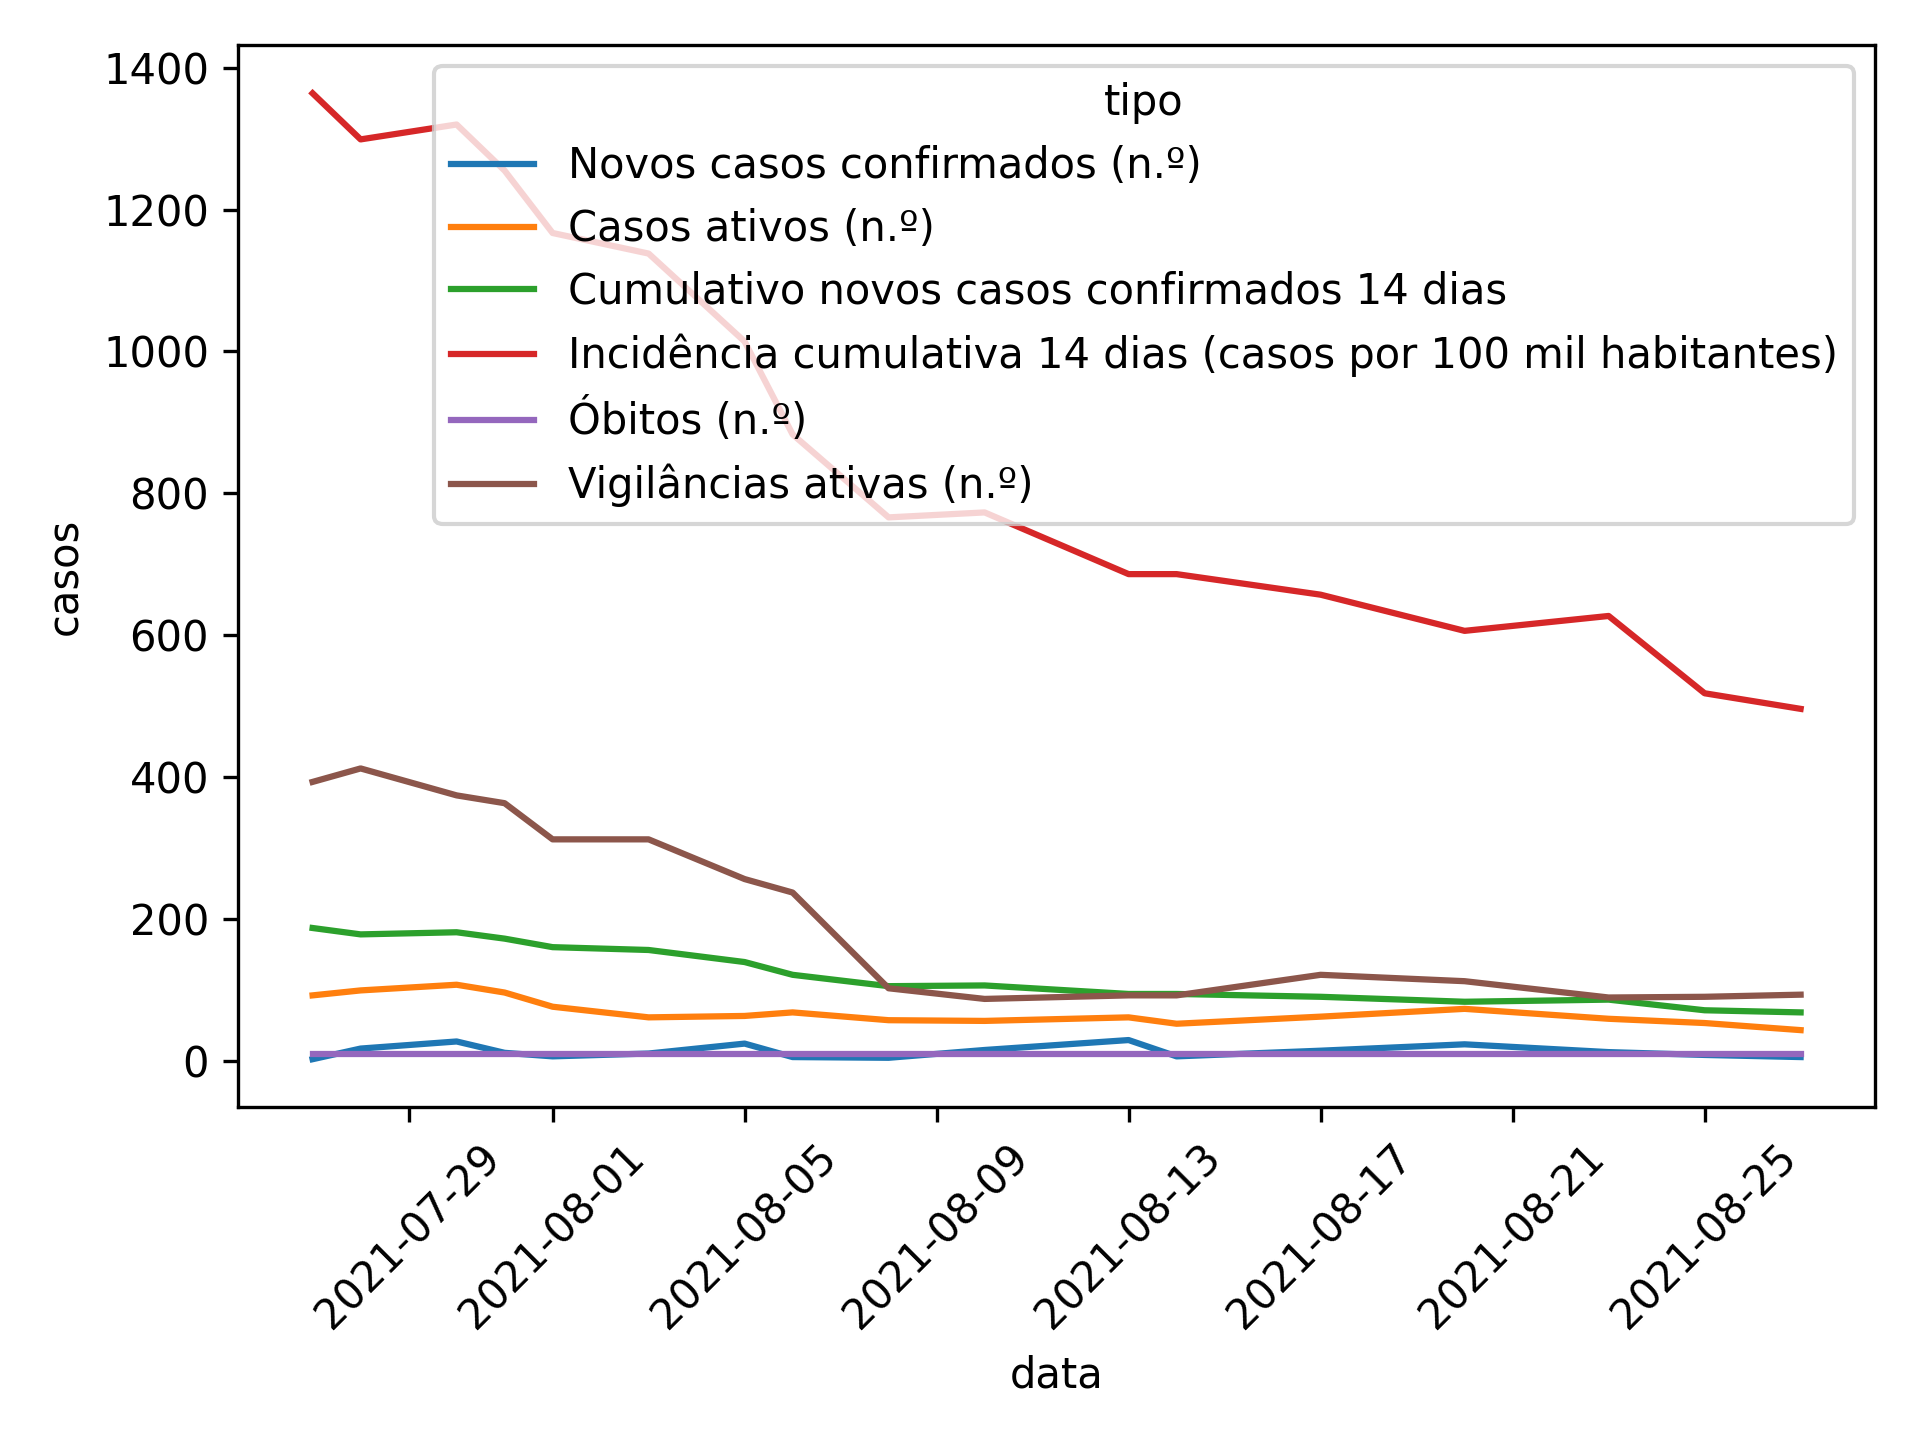
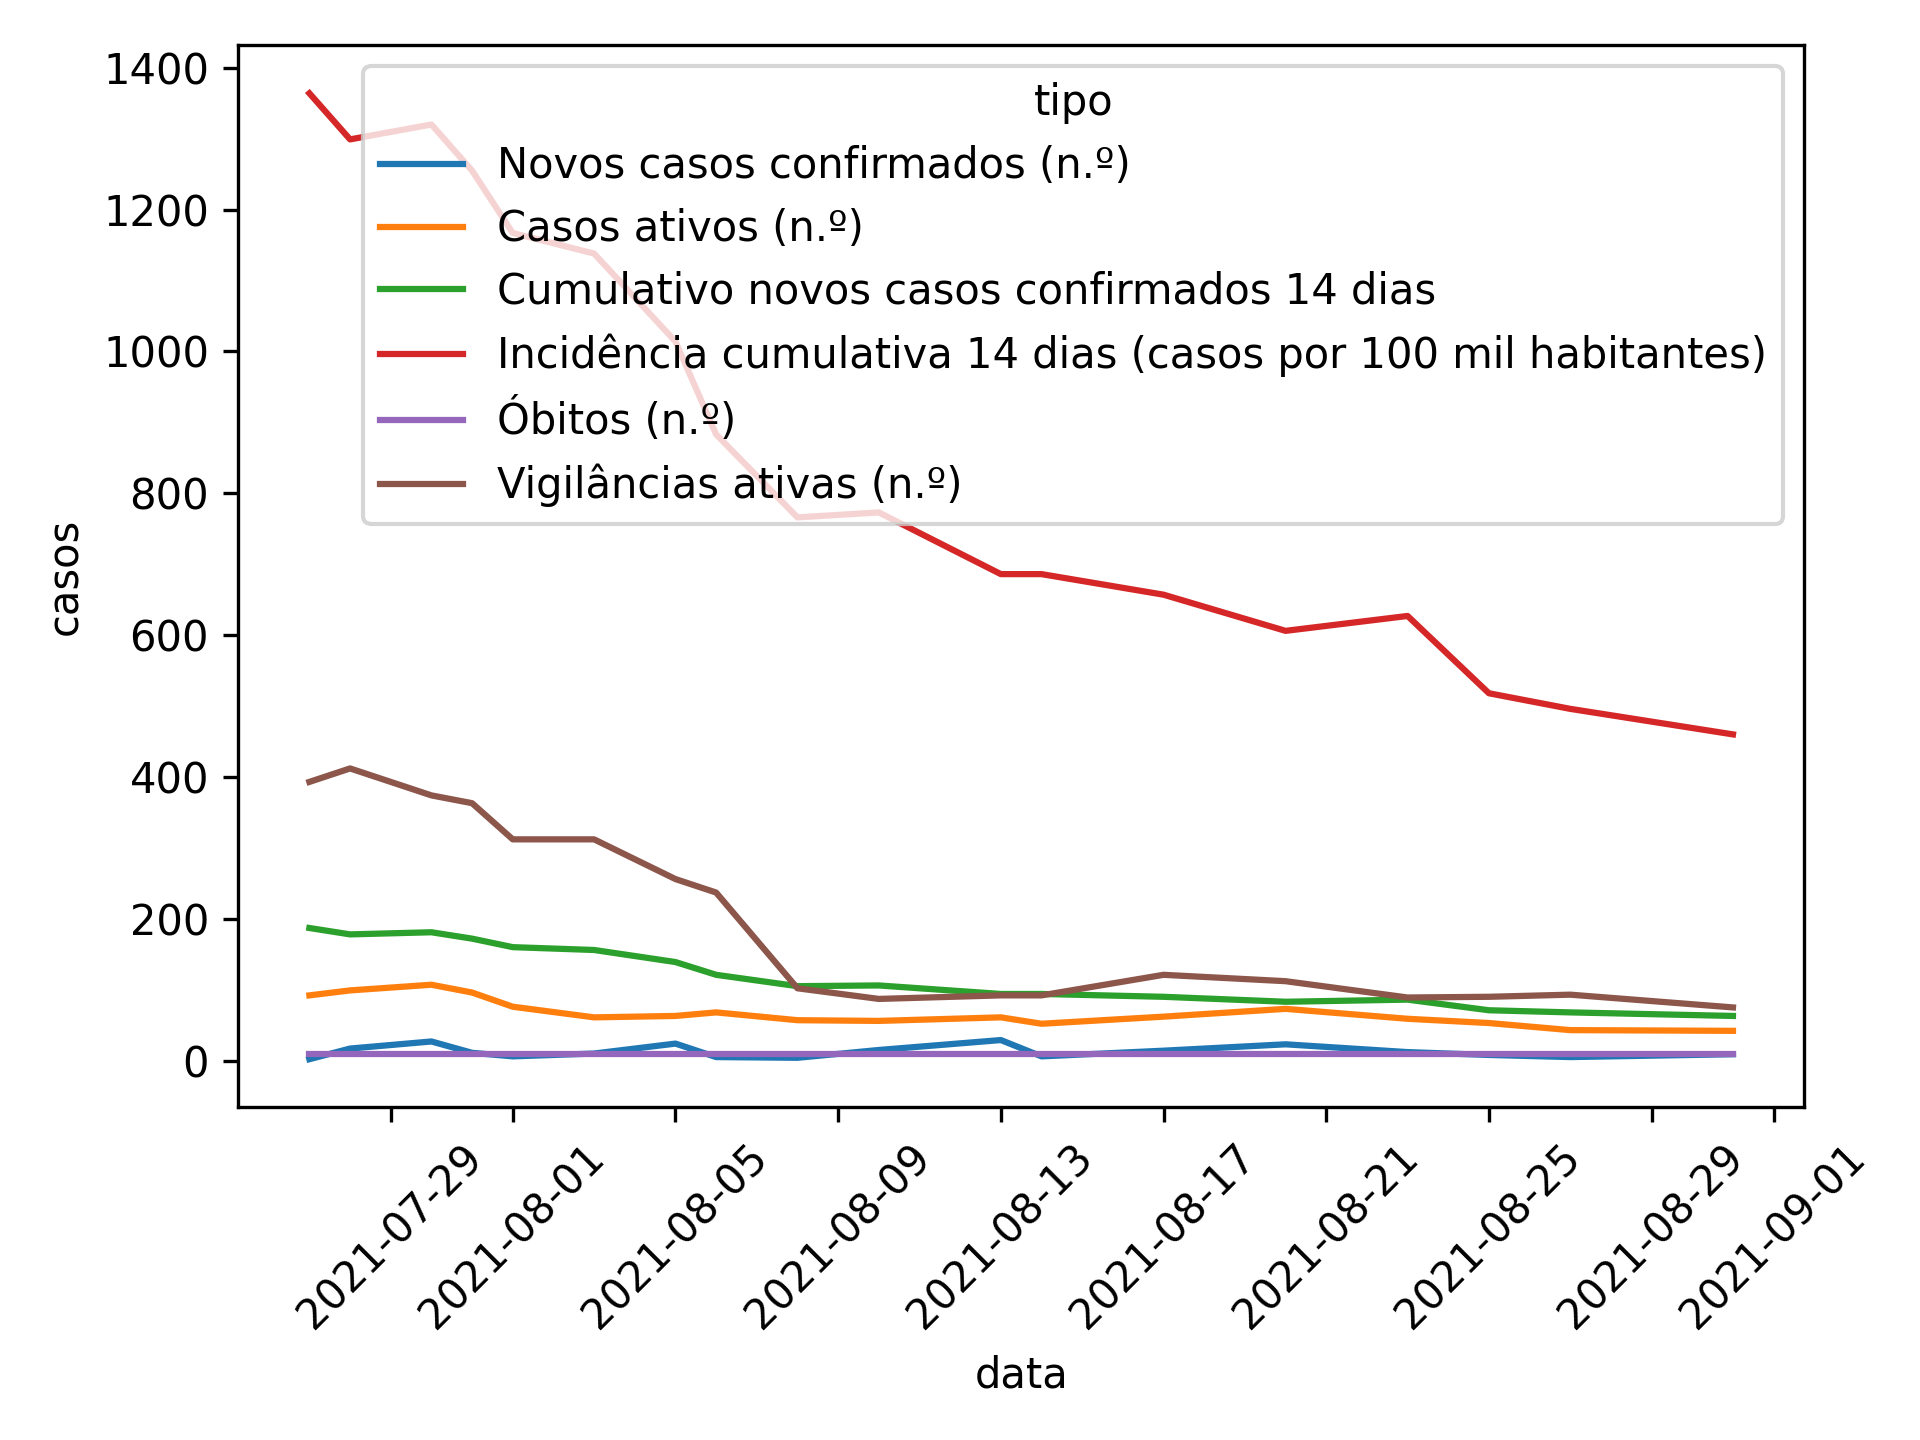
Apply automatic changes

diff --git a/README.md b/README.md
@@ -6,7 +6,6 @@
 
 | data       |   Novos casos confirmados (n.º) |   Casos ativos (n.º) |   Cumulativo novos casos confirmados 14 dias |   Incidência cumulativa 14 dias (casos por 100 mil habitantes) |   Óbitos (n.º) |   Vigilâncias ativas (n.º) |
 |:-----------|--------------------------------:|---------------------:|---------------------------------------------:|---------------------------------------------------------------:|---------------:|---------------------------:|
-| 30-07-2021 |                              27 |                  107 |                                          181 |                                                           1320 |             10 |                        374 |
 | 31-07-2021 |                              11 |                   96 |                                          172 |                                                           1255 |             10 |                        363 |
 | 01-08-2021 |                               6 |                   76 |                                          160 |                                                           1167 |             10 |                        312 |
 | 03-08-2021 |                              10 |                   61 |                                          156 |                                                           1138 |             10 |                        312 |
@@ -21,3 +20,4 @@
 | 23-08-2021 |                              12 |                   59 |                                           86 |                                                            627 |             10 |                         89 |
 | 25-08-2021 |                               8 |                   53 |                                           71 |                                                            518 |             10 |                         90 |
 | 27-08-2021 |                               5 |                   43 |                                           68 |                                                            496 |             10 |                         93 |
+| 31-08-2021 |                               9 |                   42 |                                           63 |                                                            460 |             10 |                         75 |
